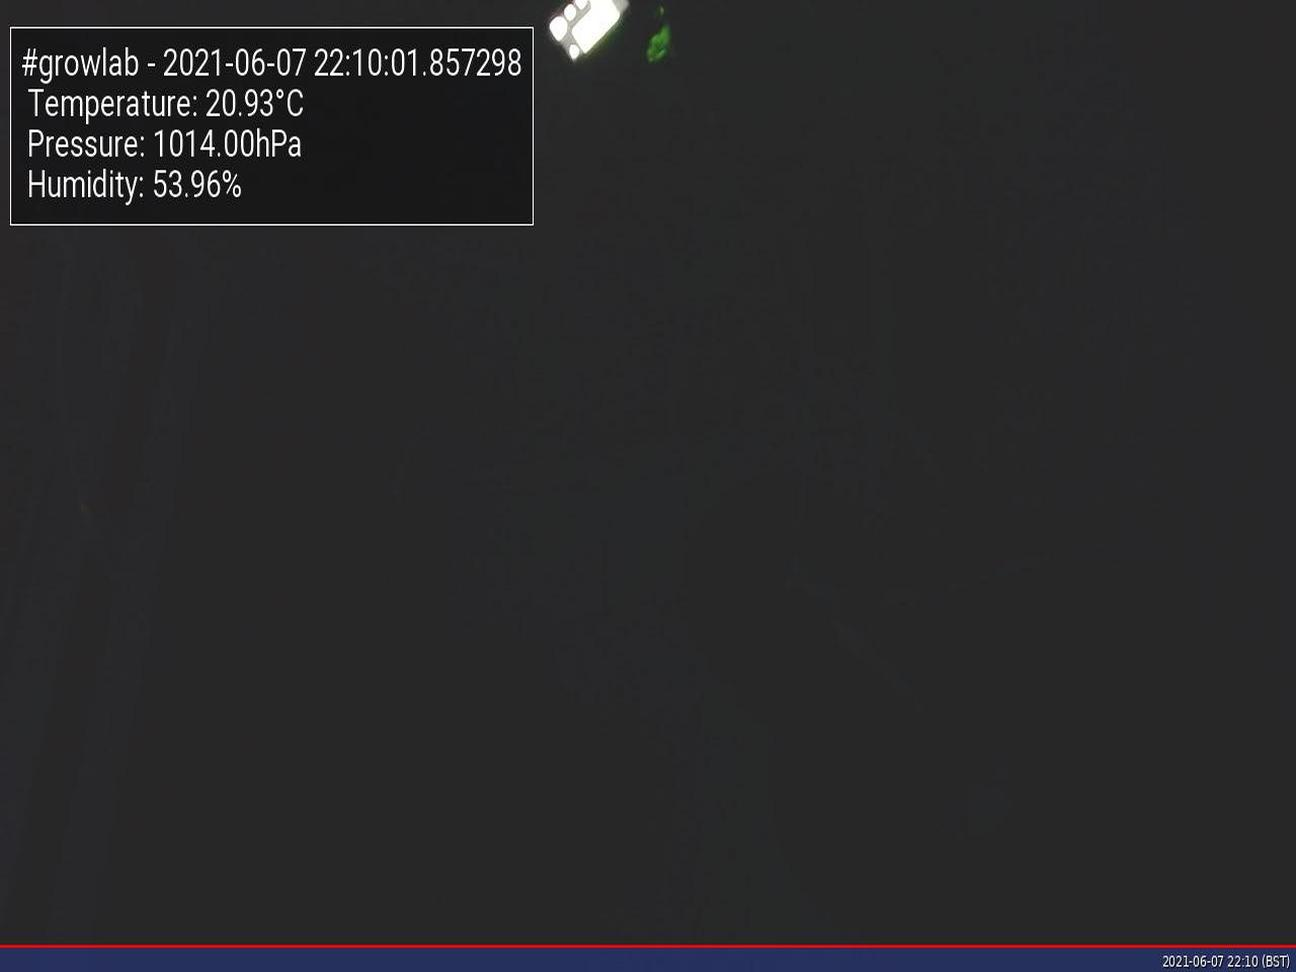
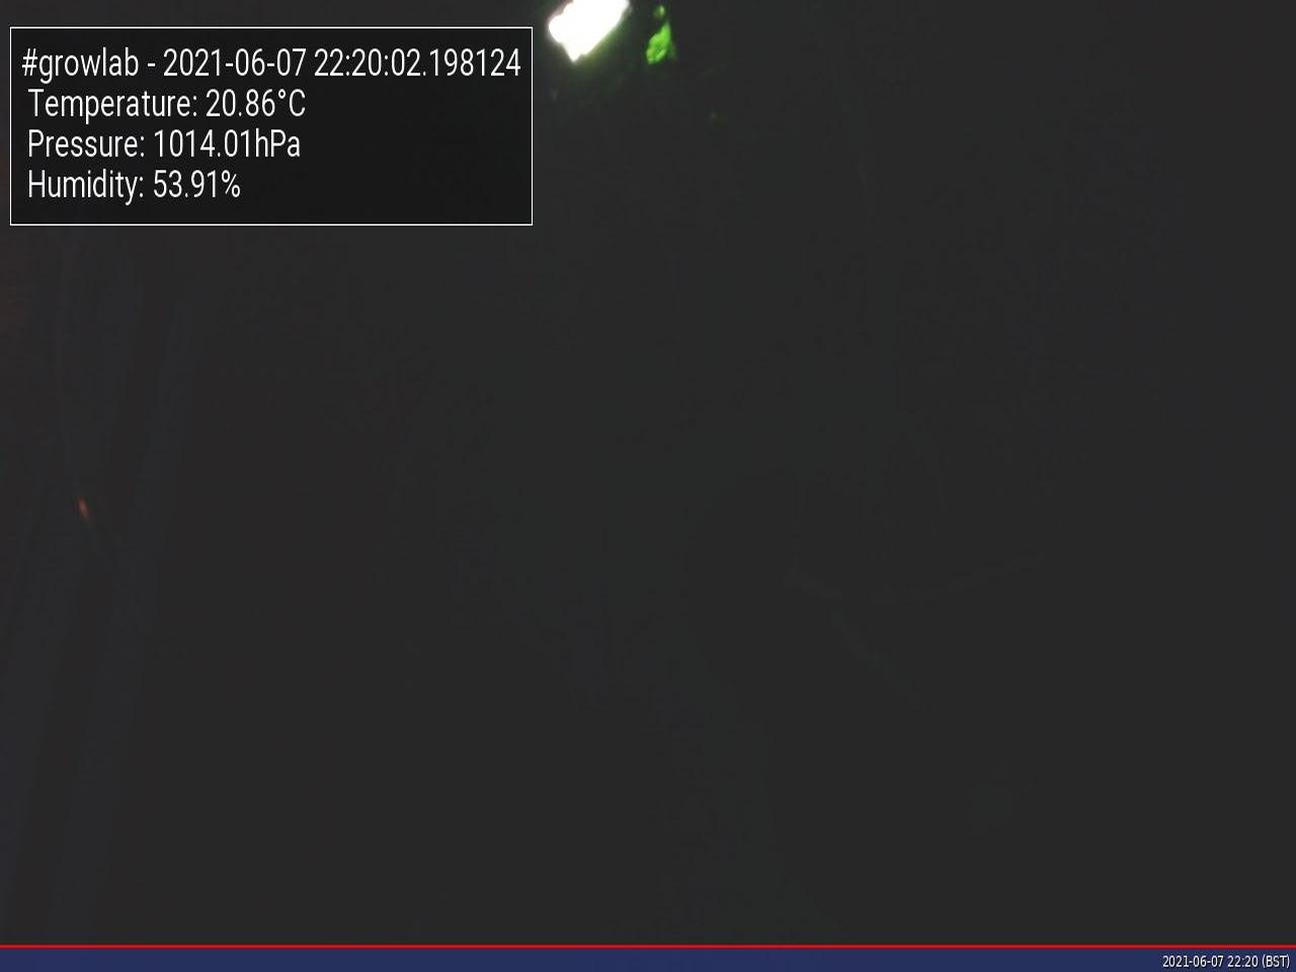
Update images at Mon  7 Jun 22:20:06 BST 2021

Changed region(s): [[0.3086, 0.0, 0.5247, 0.216], [0.1543, 0.0926, 0.2469, 0.216]]

diff --git a/app/docs/index.html b/app/docs/index.html
@@ -47,19 +47,19 @@
                         <tbody>
                             <tr>
                                 <td>Time</td>
-                                <td>2021-06-07 22:10:01.857298</td>
+                                <td>2021-06-07 22:20:02.198124</td>
                             </tr>
                             <tr>
                                 <td>Temperature</td>
-                                <td>20.93°C</td>
+                                <td>20.86°C</td>
                             </tr>
                             <tr>
                                 <td>Humidity</td>
-                                <td>53.96%</td>
+                                <td>53.91%</td>
                             </tr>
                             <tr>
                                 <td>Pressure</td>
-                                <td>1014.00hPa</td>
+                                <td>1014.01hPa</td>
                             </tr>
                         </tbody>
                     </table>
@@ -67,7 +67,7 @@
 
                 <h5>Latest image</h5>
                 <div style="width: 85%;">
-                            <img class="figure-img img-fluid rounded" src="./preview.jpg?uid=1623100205.5779727">
+                            <img class="figure-img img-fluid rounded" src="./preview.jpg?uid=1623100806.092584">
                 </div>
             </div>
         </div>
